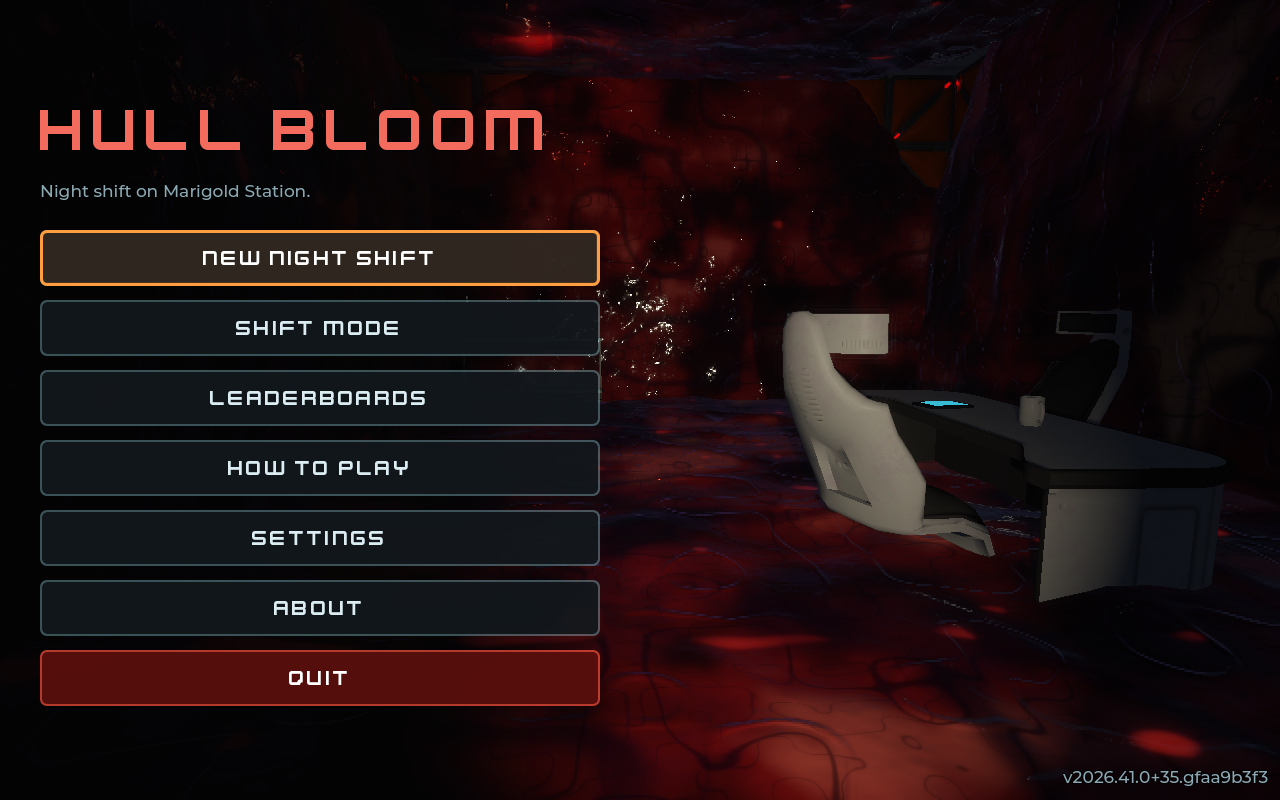
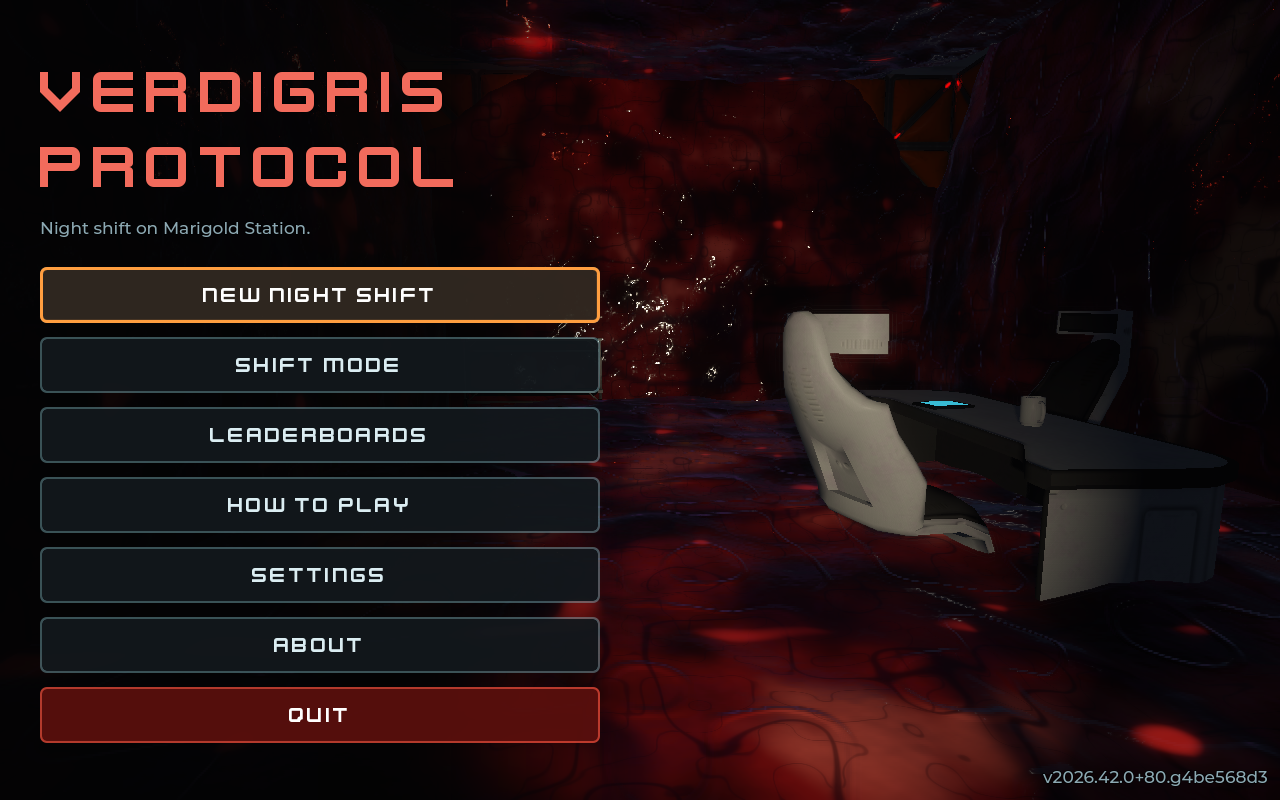
The game is now called Verdigris Protocol
Hull Bloom was its working title. The title screen, window, About page, snap
(verdigris-protocol), desktop exports and game id all use the new name. The
growth is still the Bloom. Settings and progress live in a new
verdigris-protocol folder.

Claude-Session: https://claude.ai/code/session_01MmJWQaXJzxb5jgHiGLRrN5

diff --git a/tools/lemonade/generate.py b/tools/lemonade/generate.py
@@ -1,5 +1,5 @@
 #!/usr/bin/env python3
-"""Makes Hull Bloom's music, voice lines and sound effects with Lemonade.
+"""Makes Verdigris Protocol's music, voice lines and sound effects with Lemonade.
 
     python3 tools/lemonade/generate.py [--only music|voices|sfx] [--force] [name ...]
 
@@ -66,7 +66,7 @@ ROOT = Path(__file__).resolve().parents[2]
 MANIFEST = ROOT / "tools/lemonade/audio.json"
 RECORD = ROOT / "tools/lemonade/generated.json"
 REPORT = ROOT / "assets/audio/GENERATED.md"
-CACHE = Path(os.environ.get("XDG_CACHE_HOME", Path.home() / ".cache")) / "hull-bloom-lemonade"
+CACHE = Path(os.environ.get("XDG_CACHE_HOME", Path.home() / ".cache")) / "verdigris-protocol-lemonade"
 
 SR = 44100
 PEAK_DB = -3.0
@@ -594,7 +594,7 @@ def render(record, manifest, version):
     lines = ["# Generated audio", "",
              "Made with [Lemonade](https://lemonade-server.ai)%s by `tools/lemonade/generate.py` from "
              "`tools/lemonade/audio.json`; `tools/lemonade/generated.json` has the full record, including "
-             "every take's numbers. Released as CC0, like the rest of Hull Bloom's own audio. Make them again with"
+             "every take's numbers. Released as CC0, like the rest of Verdigris Protocol's own audio. Make them again with"
              % (" " + version if version else ""), "",
              "```sh", "python3 tools/lemonade/generate.py --force [--only music|voices|sfx] [name ...]", "```", "",
              "Every file is 44.1 kHz Ogg Vorbis (music stereo, the rest mono), trimmed of silence and "

diff --git a/tools/vendor_quaternius.py b/tools/vendor_quaternius.py
@@ -1,5 +1,5 @@
 #!/usr/bin/env python3
-"""Copies the Quaternius packs Hull Bloom uses out of a quaternius-assets
+"""Copies the Quaternius packs Verdigris Protocol uses out of a quaternius-assets
 checkout (https://github.com/LinuxGroove/quaternius-assets) into the game.
 
     python3 tools/vendor_quaternius.py /path/to/quaternius-assets
@@ -15,7 +15,7 @@ checkout (https://github.com/LinuxGroove/quaternius-assets) into the game.
   Universal Animation Library 1 and 2 clips (same rig).
 
 Textures bigger than 2048 pixels are scaled down to 2048. The crew are
-drawn in Hull Bloom's own shaders, so their textures are left out. Planets and the
+drawn in Verdigris Protocol's own shaders, so their textures are left out. Planets and the
 planet hologram are left out (the station has no use for them).
 """
 import os

diff --git a/tools/blender/cutter.py b/tools/blender/cutter.py
@@ -1,4 +1,4 @@
-"""Builds Hull Bloom's plasma cutter in Blender from the Modular Sci-Fi MegaKit's trim sheets.
+"""Builds Verdigris Protocol's plasma cutter in Blender from the Modular Sci-Fi MegaKit's trim sheets.
 
 Run: blender-venv/bin/python cutter.py <textures dir> <out dir>
 Writes cutter.blend, cutter.glb and cutter.gltf (textures referenced by the kit's file names).

diff --git a/tools/sfx/make_sfx.py b/tools/sfx/make_sfx.py
@@ -1,5 +1,5 @@
 #!/usr/bin/env python3
-"""Synthesizes Hull Bloom's procedural sound effects and fallback music.
+"""Synthesizes Verdigris Protocol's procedural sound effects and fallback music.
 
     python3 tools/sfx/make_sfx.py <out_dir> [--wav <dir>] [--only name,name] [--music <dir>]
 

diff --git a/tools/gore/make_gore.py b/tools/gore/make_gore.py
@@ -1,4 +1,4 @@
-"""Makes Hull Bloom's blood decals: splats, a pool and drag marks.
+"""Makes Verdigris Protocol's blood decals: splats, a pool and drag marks.
 
 Run: python3 tools/gore/make_gore.py assets/gore
 Each splat is a white-to-grey mask with alpha (the game tints it red for

diff --git a/CLAUDE.md b/CLAUDE.md
@@ -1,6 +1,6 @@
-# Hull Bloom
+# Verdigris Protocol
 
-A first person horror shooter against an alien growth on a space station, in Godot 4.7 with GDScript on top of the COGITO immersive sim template, built from Quaternius' sci-fi kits. The concept is idea 21 in [game-ideas](https://github.com/LinuxGroove/game-ideas/blob/main/ideas/21-hull-bloom.md). It shares the LinuxGroove add-on with the other games; **read game-ideas' [online-addon.md](https://github.com/LinuxGroove/game-ideas/blob/main/online-addon.md) before touching online features or the shared add-on.**
+A first person horror shooter against an alien growth on a space station, in Godot 4.7 with GDScript on top of the COGITO immersive sim template, built from Quaternius' sci-fi kits. The concept is idea 21 in [game-ideas](https://github.com/LinuxGroove/game-ideas/blob/main/ideas/21-verdigris-protocol.md). It shares the LinuxGroove add-on with the other games; **read game-ideas' [online-addon.md](https://github.com/LinuxGroove/game-ideas/blob/main/online-addon.md) before touching online features or the shared add-on.**
 
 ## Commands
 
@@ -62,7 +62,7 @@ Run the script check and the tests before every commit. A new `class_name` needs
 - **Layers**: 1 station, 2 interactables, 4 creatures, 8 player, 16 doors, 32 gibs, 64 glass, 128 hitboxes. `Kit.LAYER_SOLID` is what blocks sight and shots.
 - **Gore** respects the Gore setting (`Full`, `Less`, `Off`) everywhere through `Gore.shown()` and `Gore.full()`; the setting can be locked with a code. With gore off there's no blood, no gibs and no dismemberment.
 - **Comfort.** Head bob and view roll are off by default, with physics interpolation; Calm walls slows or stops the growth's breathing and Spore blur can be turned off. Never add camera shake that can't be turned off.
-- **Shift mode** opens after the first ending. A night is three decks built by `ShiftLevel` from a seed; tonight's station (the date as its seed) submits its score to the `shift_daily` and `shift_best` boards with `core.score_submit`, which the game server declares in `modules/src/games/hull-bloom.ts`.
+- **Shift mode** opens after the first ending. A night is three decks built by `ShiftLevel` from a seed; tonight's station (the date as its seed) submits its score to the `shift_daily` and `shift_best` boards with `core.score_submit`, which the game server declares in `modules/src/games/verdigris-protocol.ts`.
 - **Play tests.** The shared add-on's `LGPlaytest` records a play test when the Play test recording setting is on (or with `-- --playtest`): a picture every few seconds, game events, frame times and controls, the player's notes (F8, or Note this moment in the pause menu) and a survey when they quit, all in one zip in `user://playtest/`. Game events go through `LGPlaytest.event()` and `moment()`; the round's own survey questions are `GameConfig.PLAYTEST`. Quit through `LGScenes.quit()` so the survey comes first.
 - **Everything works offline.** No server or network is needed; the boards are only tried when online play is on.
 - **Launch ping.** `game/main.gd` calls `LGLaunchPing.send(GameConfig.GAME_ID)` at startup: one anonymous request to the game server's `/launch` (game, random install id, version, OS, CPU) so the server counts every player. It's skipped headless, from source and with `DO_NOT_TRACK` set, and never blocks or retries.

diff --git a/addons/cogito/VENDORED.md b/addons/cogito/VENDORED.md
@@ -12,7 +12,7 @@ version, update the version above and re-apply the changes below.
 ## Local changes
 
 - Removed `DemoScenes/`, `DynamicFootstepSystem/DynamicFootstepDemoScene.tscn`
-  and `EasyMenus/Scenes/main_menu.tscn` (Hull Bloom has its own menus and levels).
+  and `EasyMenus/Scenes/main_menu.tscn` (Verdigris Protocol has its own menus and levels).
 - Removed audio that isn't CC0 or MIT (and some unused): alarm siren (CC BY),
   running water (CC BY), fire burn (CC BY-NC), underwater loop (CC BY), the
   Pixabay spray, energy drink and soda sounds, and the sliding door sounds.
@@ -33,14 +33,14 @@ version, update the version above and re-apply the changes below.
 - `LICENSE` copied in from the upstream repository root.
 - The `*.import` files are Godot 4.7's.
 
-## How Hull Bloom uses it
+## How Verdigris Protocol uses it
 
 - The player (`game/player/tech.gd`, `Tech`) extends `CogitoPlayer` and frees
-  the parts Hull Bloom doesn't use (stamina, sanity, currency, Cogito's pause
+  the parts Verdigris Protocol doesn't use (stamina, sanity, currency, Cogito's pause
   menu and inventory screen). Health, the weapons and the kit are Hull
   Bloom's own (`game/arsenal/`). Settings come from LGSettings, not Cogito's
   options file; head bob and view roll start off.
-- Doors, panels and pick-ups are Hull Bloom's own, driven by Cogito's
+- Doors, panels and pick-ups are Verdigris Protocol's own, driven by Cogito's
   interaction raycast and prompts as they are.
 - Footsteps use Cogito's `FootstepSurface`; `game/player/step_noise.gd`
   makes each step a noise creatures can hear.

diff --git a/README.md b/README.md
@@ -1,11 +1,11 @@
-# Hull Bloom
+# Verdigris Protocol
 
 > *The alien isn't aboard the station. It's growing through it.*
 
 A first person horror shooter against a spreading alien growth, built with
 Godot 4 and [COGITO](https://codeberg.org/Phazorknight/Cogito) from
 Quaternius' sci-fi kits. Design:
-[idea 21](https://github.com/LinuxGroove/game-ideas/blob/main/ideas/21-hull-bloom.md)
+[idea 21](https://github.com/LinuxGroove/game-ideas/blob/main/ideas/21-verdigris-protocol.md)
 in game-ideas.
 
 ![Hydroponics, overgrown](docs/screenshots/hydroponics/arrival_overgrown.png)
@@ -35,7 +35,7 @@ doors, light flares, and dig out the Heart that roots each deck.
 
 ## Playing
 
-Get it from the Snap Store once it's published (`snap install hull-bloom`),
+Get it from the Snap Store once it's published (`snap install verdigris-protocol`),
 or run it from source with Godot 4.7:
 
 ```sh

diff --git a/tools/sfx/README.md b/tools/sfx/README.md
@@ -1,6 +1,6 @@
 # Synthesized sounds
 
-`make_sfx.py` builds Hull Bloom's own sound effects and the fallback music from oscillators, noise, filters and envelopes, with no samples. Every sound has a fixed random seed taken from its name, so running it again gives the same files. It needs Python 3 with numpy, and ffmpeg with libvorbis.
+`make_sfx.py` builds Verdigris Protocol's own sound effects and the fallback music from oscillators, noise, filters and envelopes, with no samples. Every sound has a fixed random seed taken from its name, so running it again gives the same files. It needs Python 3 with numpy, and ffmpeg with libvorbis.
 
 ```sh
 python3 tools/sfx/make_sfx.py assets/audio/sfx                          # everything

diff --git a/CREDITS.md b/CREDITS.md
@@ -11,7 +11,7 @@ Made by the LinuxGroove team.
 - The crew are Quaternius' Universal Base Characters, animated with the
   Universal Animation Library 1 and 2 (CC0), in `assets/quaternius/crew/`.
 
-Made for Hull Bloom, all CC0 like the rest:
+Made for Verdigris Protocol, all CC0 like the rest:
 
 - `assets/models/cutter/`: the plasma cutter, modelled by a script
   (`tools/blender/cutter.py`).
